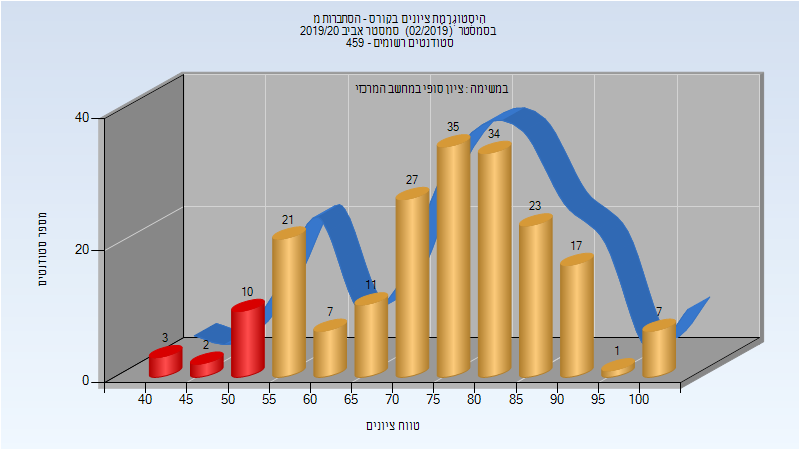
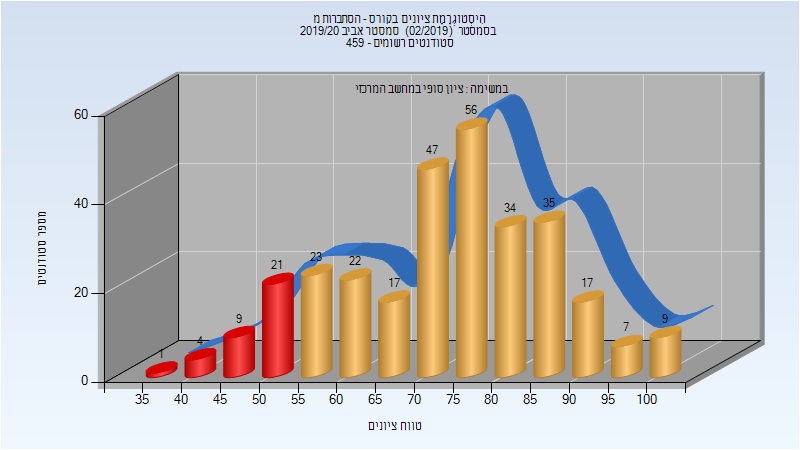
Deploy michael-maltsev/technion-histograms to github.com/michael-maltsev/technion-histograms.git:gh-pages

diff --git a/324986/index.html b/324986/index.html
@@ -413,5 +413,62 @@
 </tr>
 </tbody>
 </table>
+<h2>קיץ 2020</h2>
+<table>
+<thead>
+<tr>
+<th>איש סגל</th>
+<th>תפקיד</th>
+</tr>
+</thead>
+<tbody>
+<tr>
+<td>פסקוביץ אייל</td>
+<td>מרצה - אחראי מקצוע</td>
+</tr>
+<tr>
+<td>איסמן ליסה</td>
+<td>סגל מנהלי - עם הרשאות מרצה אחראי</td>
+</tr>
+<tr>
+<td>בורנשטיין יעל</td>
+<td>סגל מנהלי - עם הרשאות מרצה אחראי</td>
+</tr>
+<tr>
+<td>הראל אילנה</td>
+<td>סגל מנהלי - עם הרשאות מרצה אחראי</td>
+</tr>
+<tr>
+<td>בן ענת רוחמה</td>
+<td>סגל מנהלי - עם הרשאות מרצה אחראי</td>
+</tr>
+</tbody>
+</table>
+<h3>סופי מועד א'</h3>
+<p><img src="201903/Final_A.png" alt="201903 Final_A" /></p>
+<table>
+<thead>
+<tr>
+<th>סטודנטים</th>
+<th>עברו/נכשלו</th>
+<th>אחוז עוברים</th>
+<th>ציון מינימלי</th>
+<th>ציון מקסימלי</th>
+<th>ממוצע</th>
+<th>חציון</th>
+</tr>
+</thead>
+<tbody>
+<tr>
+<td>53</td>
+<td>53/0</td>
+<td>100</td>
+<td>75</td>
+<td>100</td>
+<td>93.925</td>
+<td>95</td>
+</tr>
+</tbody>
+</table>
   </body>
 </html>

diff --git a/094412/index.html b/094412/index.html
@@ -1177,8 +1177,8 @@
 <td>75</td>
 <td>23</td>
 <td>100</td>
-<td>67.548</td>
-<td>67</td>
+<td>67.565</td>
+<td>67.5</td>
 </tr>
 </tbody>
 </table>
@@ -1263,13 +1263,13 @@
 </thead>
 <tbody>
 <tr>
-<td>198</td>
-<td>183/15</td>
-<td>92</td>
-<td>40</td>
+<td>302</td>
+<td>267/35</td>
+<td>88</td>
+<td>38</td>
 <td>100</td>
-<td>75.465</td>
-<td>77</td>
+<td>73.54</td>
+<td>76</td>
 </tr>
 </tbody>
 </table>

diff --git a/324986/README.md b/324986/README.md
@@ -126,3 +126,21 @@
 | ---- | ---- | ---- | ---- | ---- | ---- | ---- |
 | 25 | 25/0 | 100 | 75 | 100 | 94.6 | 95 |
 
+## קיץ 2020
+
+| איש סגל | תפקיד |
+| ---- | ---- |
+| פסקוביץ אייל | מרצה - אחראי מקצוע |
+| איסמן ליסה | סגל מנהלי - עם הרשאות מרצה אחראי |
+| בורנשטיין יעל | סגל מנהלי - עם הרשאות מרצה אחראי |
+| הראל אילנה | סגל מנהלי - עם הרשאות מרצה אחראי |
+| בן ענת רוחמה | סגל מנהלי - עם הרשאות מרצה אחראי |
+
+### סופי מועד א'
+
+![201903 Final_A](201903/Final_A.png)
+
+| סטודנטים | עברו/נכשלו | אחוז עוברים | ציון מינימלי | ציון מקסימלי | ממוצע | חציון |
+| ---- | ---- | ---- | ---- | ---- | ---- | ---- |
+| 53 | 53/0 | 100 | 75 | 100 | 93.925 | 95 |
+

diff --git a/094412/README.md b/094412/README.md
@@ -368,7 +368,7 @@
 
 | סטודנטים | עברו/נכשלו | אחוז עוברים | ציון מינימלי | ציון מקסימלי | ממוצע | חציון |
 | ---- | ---- | ---- | ---- | ---- | ---- | ---- |
-| 292 | 218/74 | 75 | 23 | 100 | 67.548 | 67 |
+| 292 | 218/74 | 75 | 23 | 100 | 67.565 | 67.5 |
 
 ## אביב 2020
 
@@ -396,5 +396,5 @@
 
 | סטודנטים | עברו/נכשלו | אחוז עוברים | ציון מינימלי | ציון מקסימלי | ממוצע | חציון |
 | ---- | ---- | ---- | ---- | ---- | ---- | ---- |
-| 198 | 183/15 | 92 | 40 | 100 | 75.465 | 77 |
+| 302 | 267/35 | 88 | 38 | 100 | 73.54 | 76 |
 
